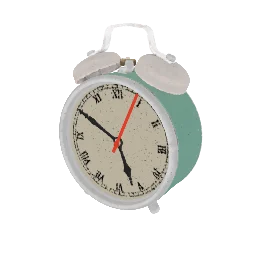
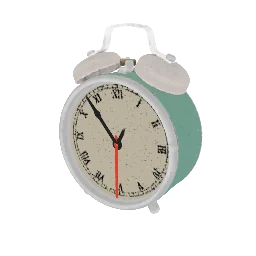
Fix8: thumbnail, handoff state
Claude-Session: https://claude.ai/code/session_01CNoeaNLoZCut1mBMAHYj1g

Changed region(s): [[0.3125, 0.3438, 0.5625, 0.7812]]

diff --git a/docs/handoff/Fix8.md b/docs/handoff/Fix8.md
@@ -89,6 +89,23 @@ the shared lists, and this file.
 
 ## State
 
+READY (October 5, 2026): done and pushed (draft PR #273).
+
+- tests/fx8.spec.mjs and tests/fx5.spec.mjs pass (13 of 13), and Prettier and the US English check
+  pass.
+- The thumbnail is re-rendered and the contact sheet checked.
+- The clip is on Effect review page 2: card `fx8-alarm-clock-time`, lane record `Fix8`.
+- Waiting for the owner's mark on the clip. This changes a public toy, so it merges only after he
+  marks it good.
+
+## Notes", "## Known issues" and "## For the Operator" current.
+
+- PR: one draft PR against main (five sections: Summary, Verification, Deviations, Known issues,
+  What was cut), opened early and pushed after each finished item. Finish every working turn with a
+  final message that starts "READY:", "WORKING:" or "BLOCKED:".
+
+## State
+
 WORKING (October 5, 2026): the hands are done and pushed (draft PR #273). Still to do: the clip on
 Effect review page 2, the contact sheet, thumbnails and the full lane checks.
 
@@ -123,6 +140,9 @@ Effect review page 2, the contact sheet, thumbnails and the full lane checks.
   matches the kit Alarm clock.
 - **Time zone:** not added. Scan rigs can't take Toy tab options without an engine change (only kit
   recipes and scan looks have options, and a rig's `drive()` gets no `info.data`).
+- Clips: `node tools/fx8-clip.mjs <out-dir>`. It gives the page a virtual clock that moves on with
+  each frame, so the hands move at their real speed in the clip (effect-clip.mjs steps only the
+  toy's clock).
 - tests/fx5.spec.mjs checked the old hand (part `hand`, turned from player time), so its one test is
   updated to the new parts.
 
